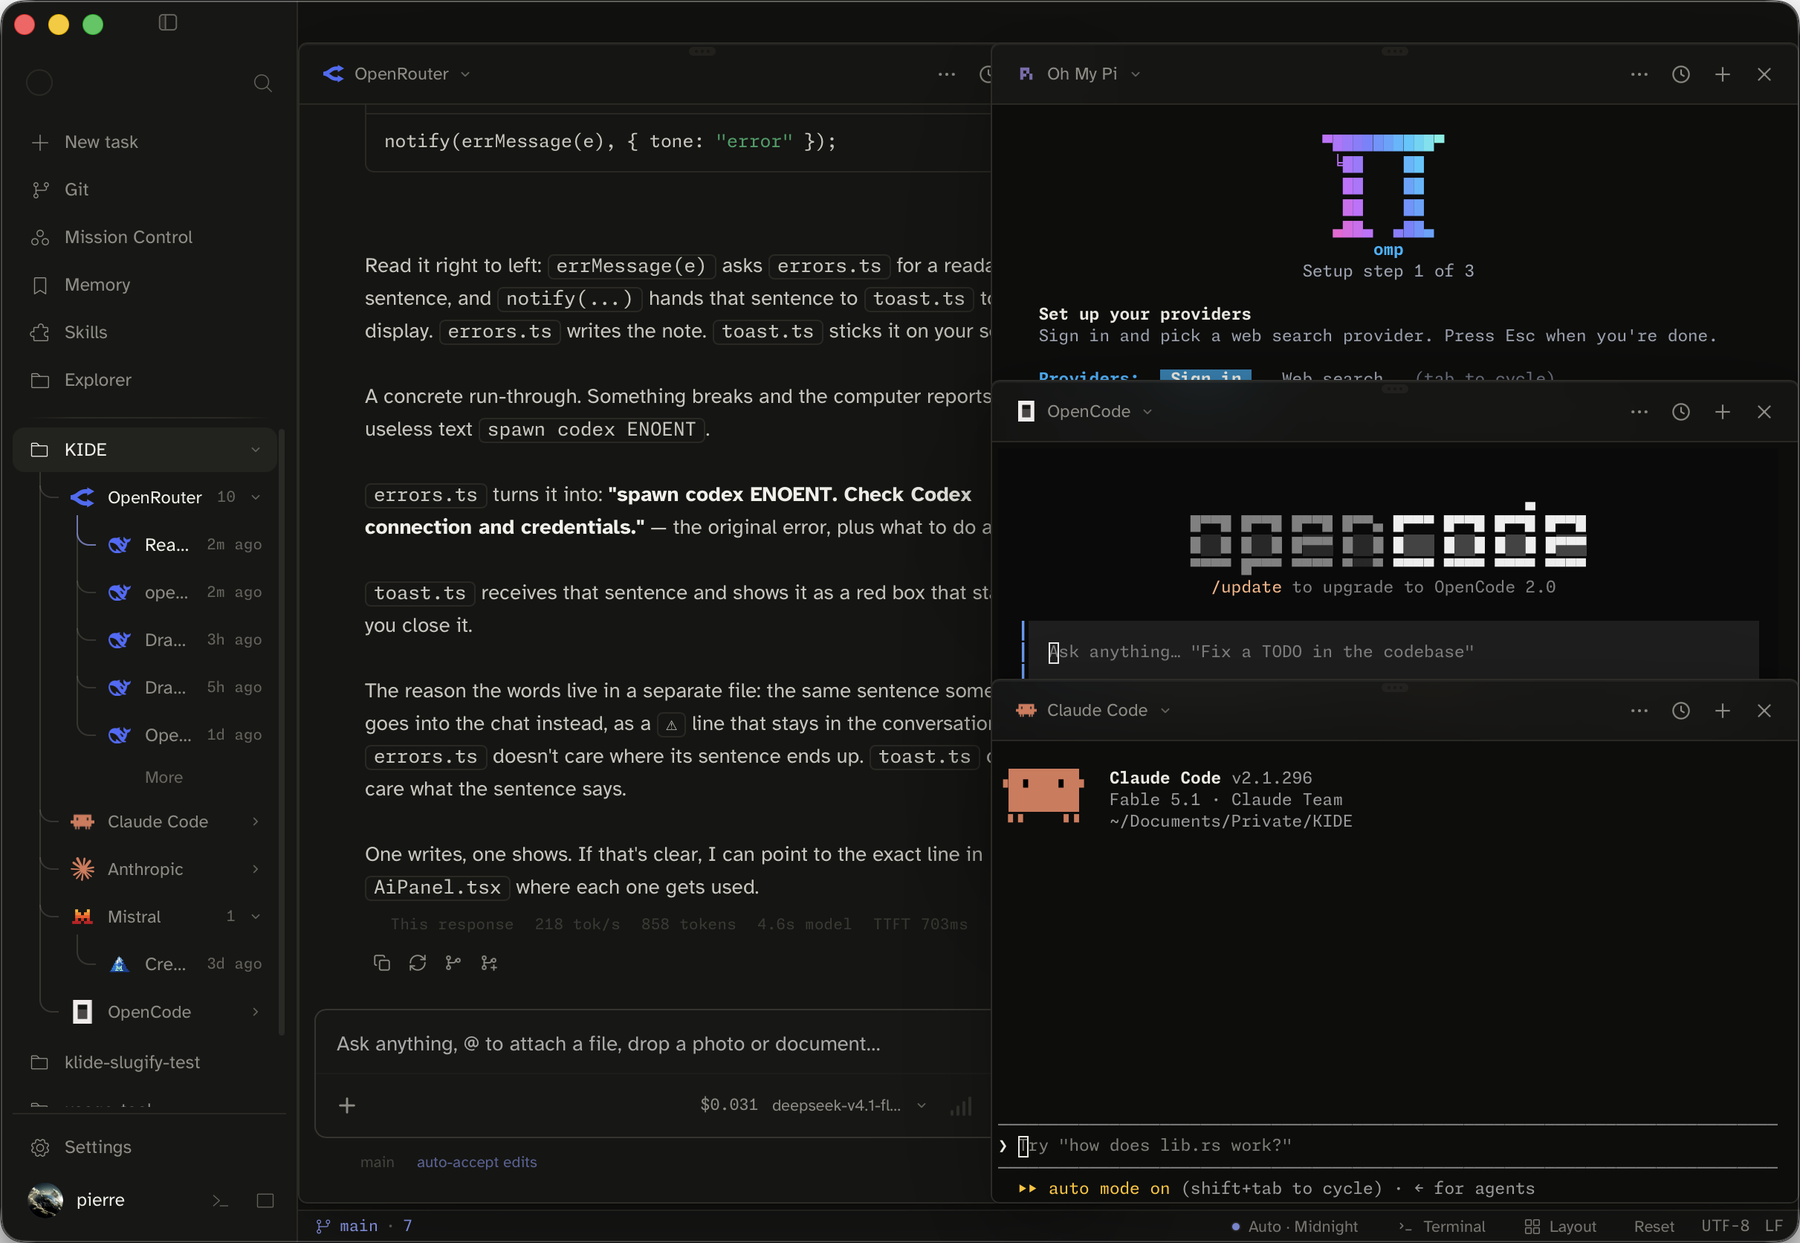
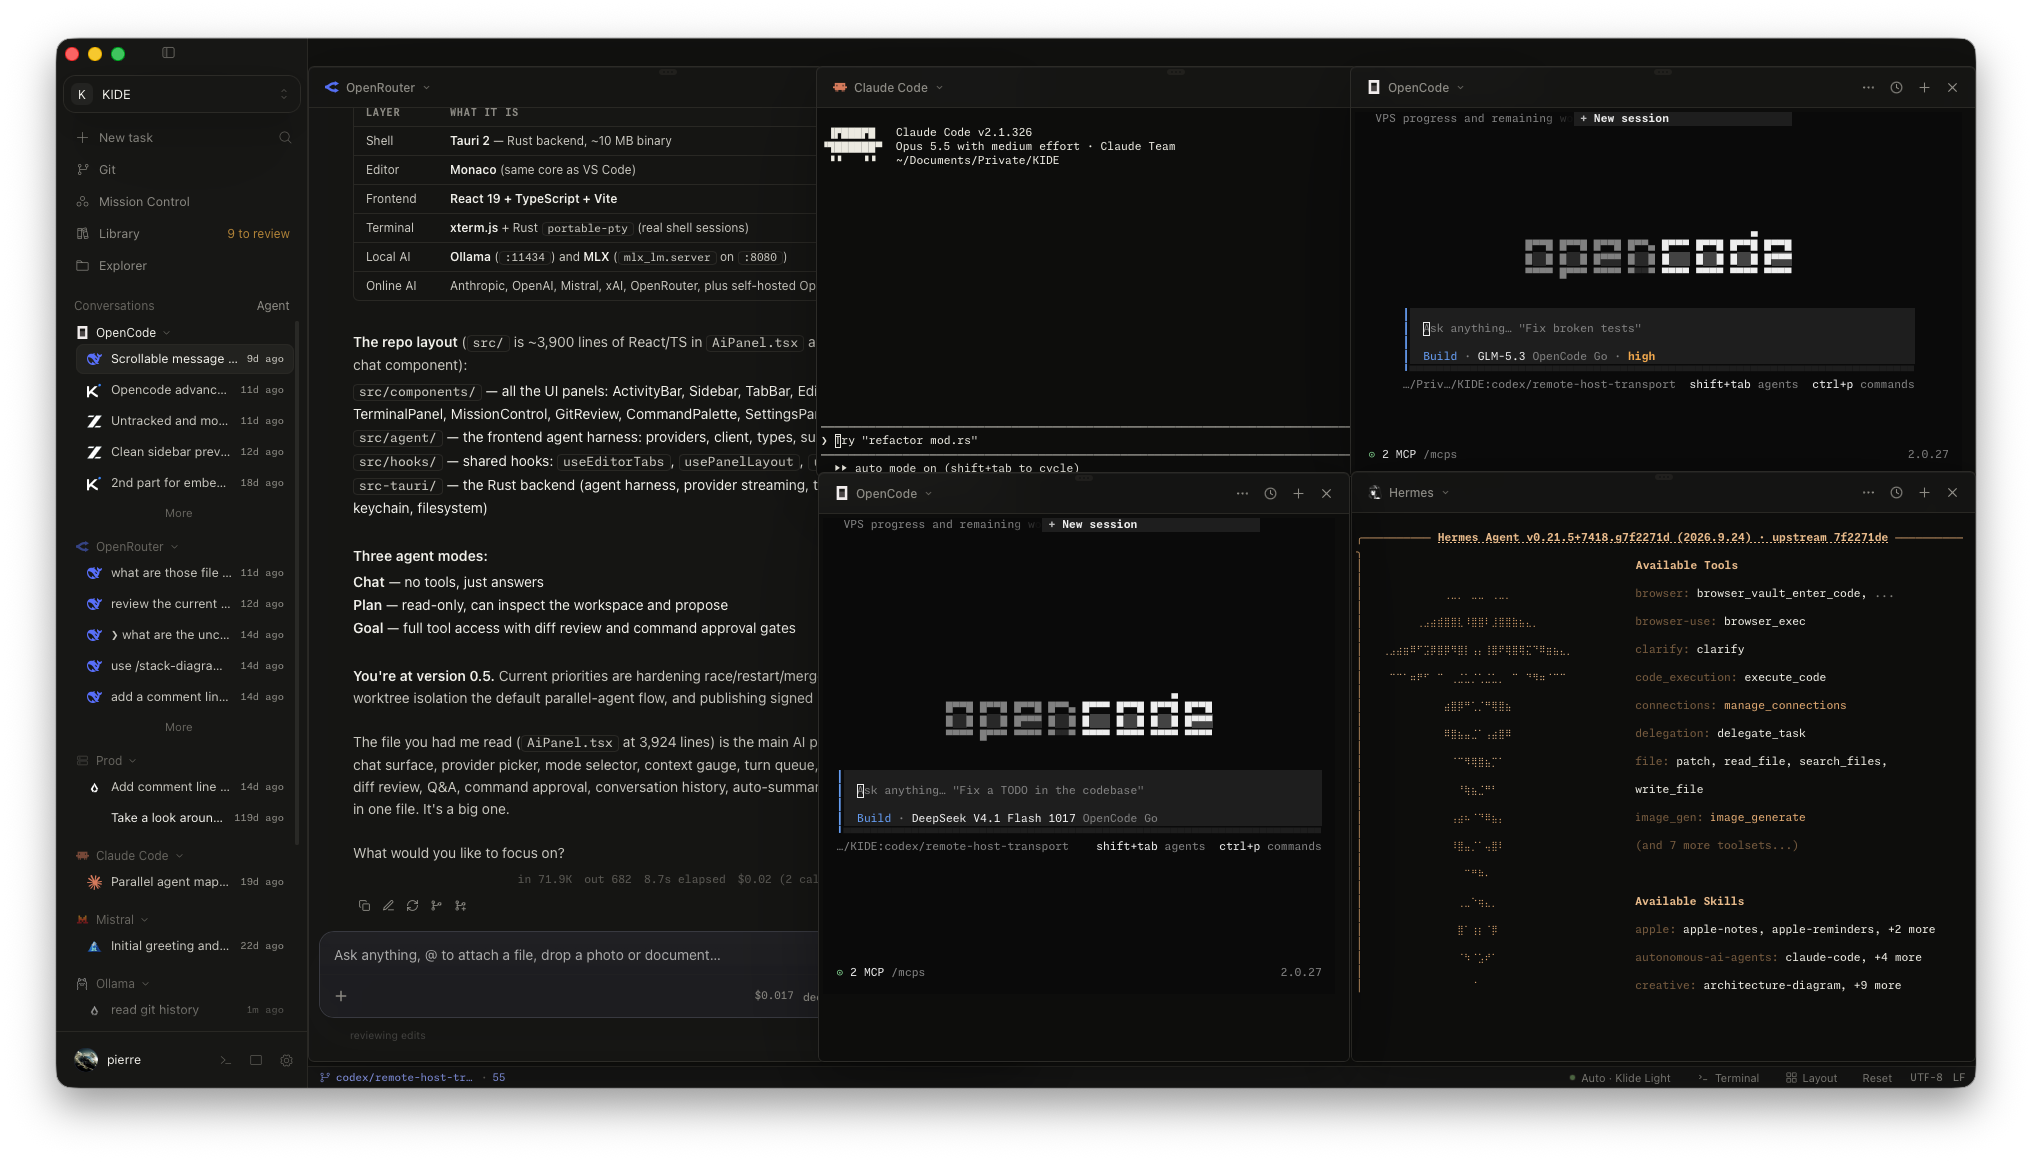
docs: refresh Focus and free-mode screenshots

diff --git a/README.md b/README.md
@@ -59,7 +59,7 @@ Press **⌘F** to open the search bar and find text in the current conversation,
 
 The editor-first layout: explorer, tabs, Monaco, terminal, and AI panels. Anchor the panels, pick a fixed preset, build a grid, or float them freely over the editor — run a hosted model and the delegate CLIs side by side, each in its own live terminal, compare their answers, and keep the file you are reviewing open behind them.
 
-<img src=".github/assets/free-mode.png" alt="Klide workbench in free mode: an OpenRouter conversation beside three delegate panels running Oh My Pi, OpenCode and Claude Code as live terminals" width="900" />
+<img src=".github/assets/free-mode.png" alt="Klide workbench in free mode: an OpenRouter conversation beside four delegate panels running Claude Code, two OpenCode sessions and Hermes as live terminals" width="900" />
 
 ## Why Klide
 
